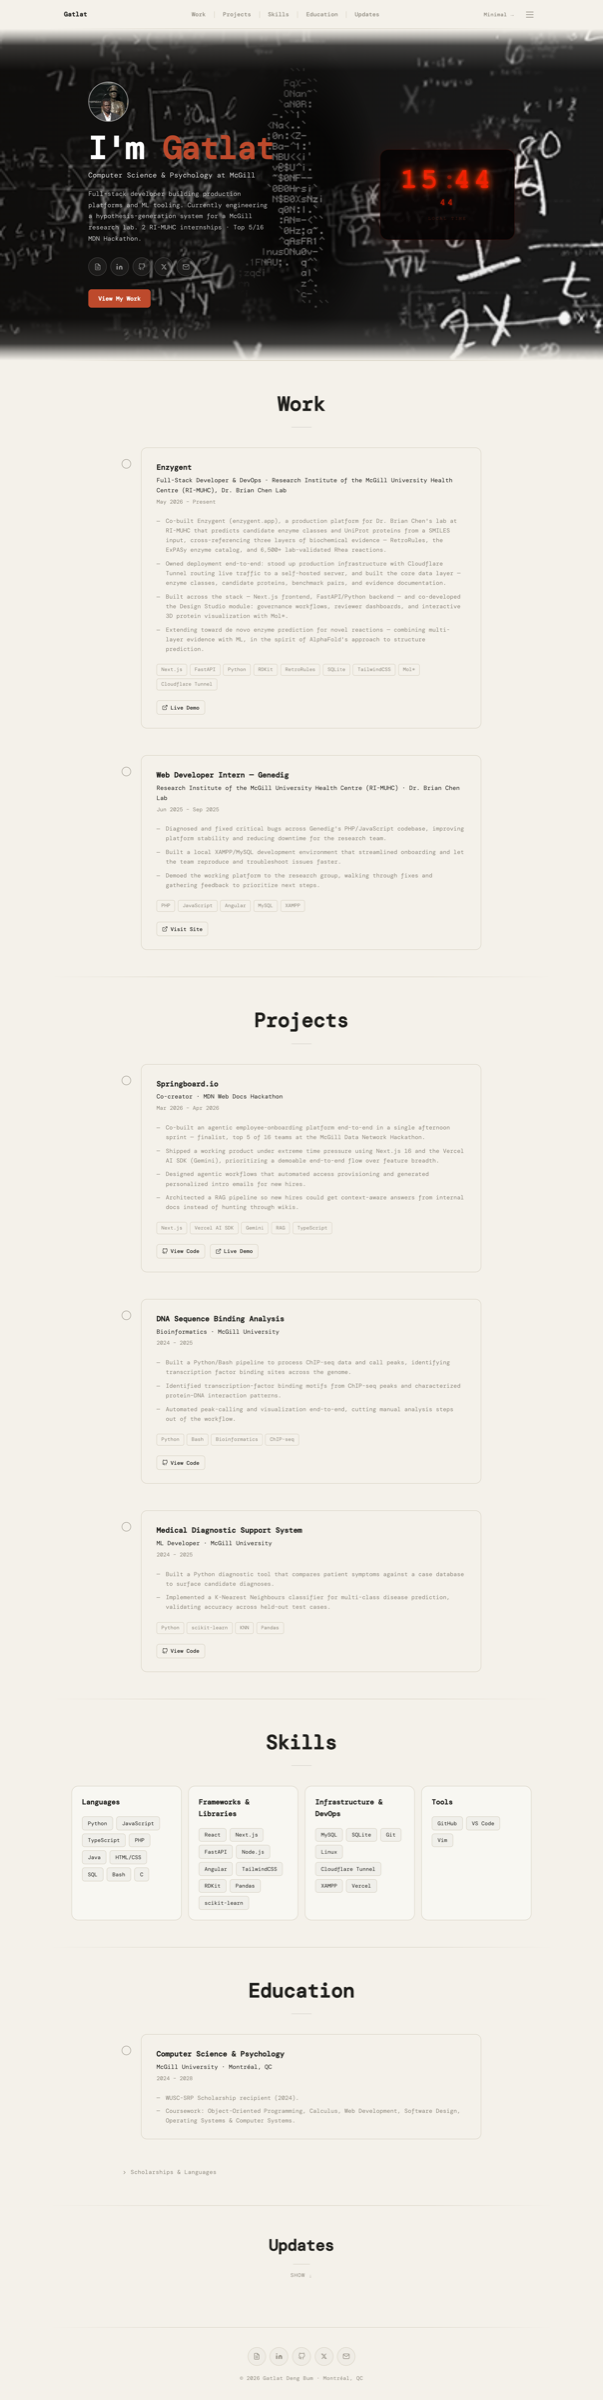
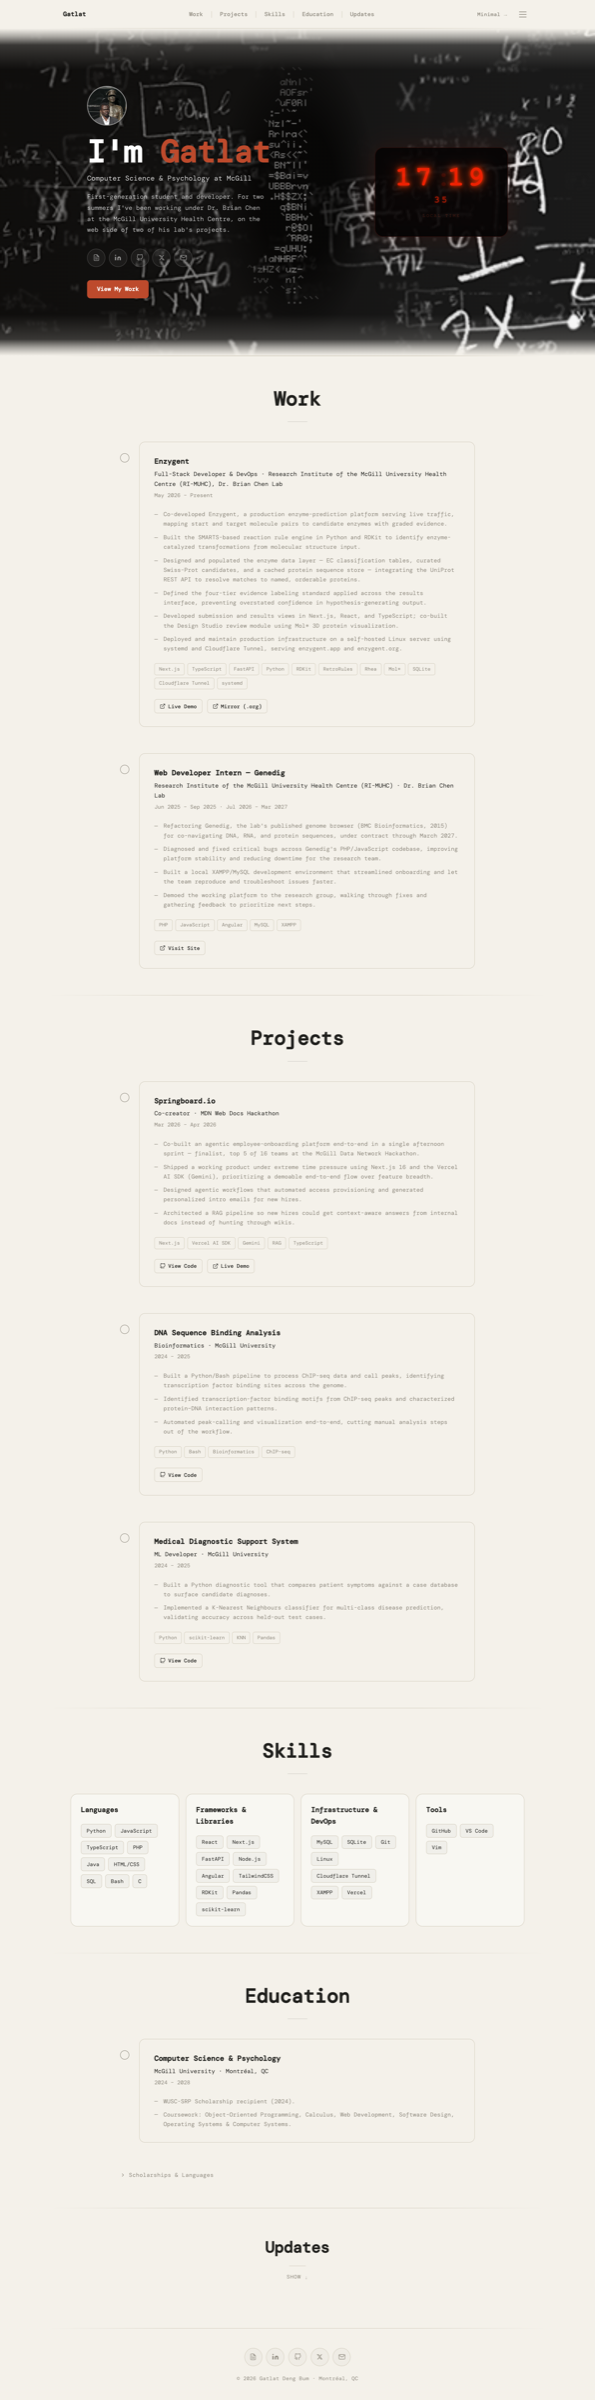
Rewrite hero and work-section copy
Hero: state the lab role plainly and position it under Dr. Chen rather
than speaking for his lab.

Work: convert bullets to resume format — verb-first, keyword-dense — and
ground them in the project docs instead of inference. The science layer
(SMARTS rule engine, EC tables, Swiss-Prot candidates and sequence cache,
evidence labelling) is the accurate description of the role; earlier
drafts invented users and an impact claim. Show Genedig as active through
March 2027.

diff --git a/src/data/work.ts b/src/data/work.ts
@@ -15,26 +15,32 @@ export const jobs: Project[] = [
     id: 'enzygent',
     title: 'Enzygent',
     role: 'Full-Stack Developer & DevOps · Research Institute of the McGill University Health Centre (RI-MUHC), Dr. Brian Chen Lab',
-    org: 'enzygent.app',
+    org: 'enzygent.app · enzygent.org',
     year: 'May 2026 – Present',
     description: '',
     bullets: [
-      'Co-built Enzygent (enzygent.app), a production platform for Dr. Brian Chen\'s lab at RI-MUHC that predicts candidate enzyme classes and UniProt proteins from a SMILES input, cross-referencing three layers of biochemical evidence — RetroRules, the ExPASy enzyme catalog, and 6,500+ lab-validated Rhea reactions.',
-      'Owned deployment end-to-end: stood up production infrastructure with Cloudflare Tunnel routing live traffic to a self-hosted server, and built the core data layer — enzyme classes, candidate proteins, benchmark pairs, and evidence documentation.',
-      'Built across the stack — Next.js frontend, FastAPI/Python backend — and co-developed the Design Studio module: governance workflows, reviewer dashboards, and interactive 3D protein visualization with Mol*.',
-      'Extending toward de novo enzyme prediction for novel reactions — combining multi-layer evidence with ML, in the spirit of AlphaFold\'s approach to structure prediction.',
+      'Co-developed Enzygent, a production enzyme-prediction platform serving live traffic, mapping start and target molecule pairs to candidate enzymes with graded evidence.',
+      'Built the SMARTS-based reaction rule engine in Python and RDKit to identify enzyme-catalyzed transformations from molecular structure input.',
+      'Designed and populated the enzyme data layer — EC classification tables, curated Swiss-Prot candidates, and a cached protein sequence store — integrating the UniProt REST API to resolve matches to named, orderable proteins.',
+      'Defined the four-tier evidence labeling standard applied across the results interface, preventing overstated confidence in hypothesis-generating output.',
+      'Developed submission and results views in Next.js, React, and TypeScript; co-built the Design Studio review module using Mol* 3D protein visualization.',
+      'Deployed and maintain production infrastructure on a self-hosted Linux server using systemd and Cloudflare Tunnel, serving enzygent.app and enzygent.org.',
     ],
-    tech: ['Next.js', 'FastAPI', 'Python', 'RDKit', 'RetroRules', 'SQLite', 'TailwindCSS', 'Mol*', 'Cloudflare Tunnel'],
-    links: [{ label: 'Live', url: 'https://enzygent.app' }],
+    tech: ['Next.js', 'TypeScript', 'FastAPI', 'Python', 'RDKit', 'RetroRules', 'Rhea', 'Mol*', 'SQLite', 'Cloudflare Tunnel', 'systemd'],
+    links: [
+      { label: 'Live', url: 'https://enzygent.app' },
+      { label: 'Mirror (.org)', url: 'https://enzygent.org' },
+    ],
   },
   {
     id: 'rimuhc',
     title: 'Web Developer Intern — Genedig',
     role: 'Research Institute of the McGill University Health Centre (RI-MUHC) · Dr. Brian Chen Lab',
     org: 'genedig.org',
-    year: 'Jun 2025 – Sep 2025',
+    year: 'Jun 2025 – Sep 2025 · Jul 2026 – Mar 2027',
     description: '',
     bullets: [
+      'Refactoring Genedig, the lab\'s published genome browser (BMC Bioinformatics, 2015) for co-navigating DNA, RNA, and protein sequences, under contract through March 2027.',
       'Diagnosed and fixed critical bugs across Genedig\'s PHP/JavaScript codebase, improving platform stability and reducing downtime for the research team.',
       'Built a local XAMPP/MySQL development environment that streamlined onboarding and let the team reproduce and troubleshoot issues faster.',
       'Demoed the working platform to the research group, walking through fixes and gathering feedback to prioritize next steps.',

diff --git a/src/components/MinimalView.tsx b/src/components/MinimalView.tsx
@@ -108,7 +108,7 @@ export default function MinimalView() {
                   onMouseLeave={e => e.currentTarget.style.color = 'var(--color-muted)'}
                 >
                   {link.label === 'GitHub' ? <GitHubIcon /> : <ExternalIcon />}
-                  {link.label === 'GitHub' ? 'View Code' : link.label === 'Live' ? 'Live Demo' : 'Visit Site'}
+                  {link.label === 'GitHub' ? 'View Code' : link.label === 'Live' ? 'Live Demo' : link.label === 'Site' ? 'Visit Site' : link.label}
                 </a>
               ))}
             </div>
@@ -147,7 +147,7 @@ export default function MinimalView() {
                   onMouseLeave={e => e.currentTarget.style.color = 'var(--color-muted)'}
                 >
                   {link.label === 'GitHub' ? <GitHubIcon /> : <ExternalIcon />}
-                  {link.label === 'GitHub' ? 'View Code' : link.label === 'Live' ? 'Live Demo' : 'Visit Site'}
+                  {link.label === 'GitHub' ? 'View Code' : link.label === 'Live' ? 'Live Demo' : link.label === 'Site' ? 'Visit Site' : link.label}
                 </a>
               ))}
             </div>

diff --git a/src/components/Hero/index.tsx b/src/components/Hero/index.tsx
@@ -168,8 +168,9 @@ export default function Hero() {
             maxWidth: '440px',
             textShadow: '0 1px 8px rgba(0,0,0,0.6)',
           }}>
-            Full-stack developer building production platforms and ML tooling. Currently engineering a hypothesis-generation system for a McGill research lab.
-            2 RI-MUHC internships · Top 5/16 MDN Hackathon.
+            First-generation student and developer. For two summers I've been working
+            under Dr. Brian Chen at the McGill University Health Centre, on the web
+            side of two of his lab's projects.
           </p>
 
           {/* Social icons */}

diff --git a/src/components/Work.tsx b/src/components/Work.tsx
@@ -109,7 +109,7 @@ export default function Work() {
                           onMouseLeave={e => { e.currentTarget.style.borderColor = 'var(--color-line)' }}
                         >
                           {isGitHub ? <GitHubIcon /> : <ExternalIcon />}
-                          {isGitHub ? 'View Code' : link.label === 'Live' ? 'Live Demo' : 'Visit Site'}
+                          {isGitHub ? 'View Code' : link.label === 'Live' ? 'Live Demo' : link.label === 'Site' ? 'Visit Site' : link.label}
                         </a>
                       )
                     })}
